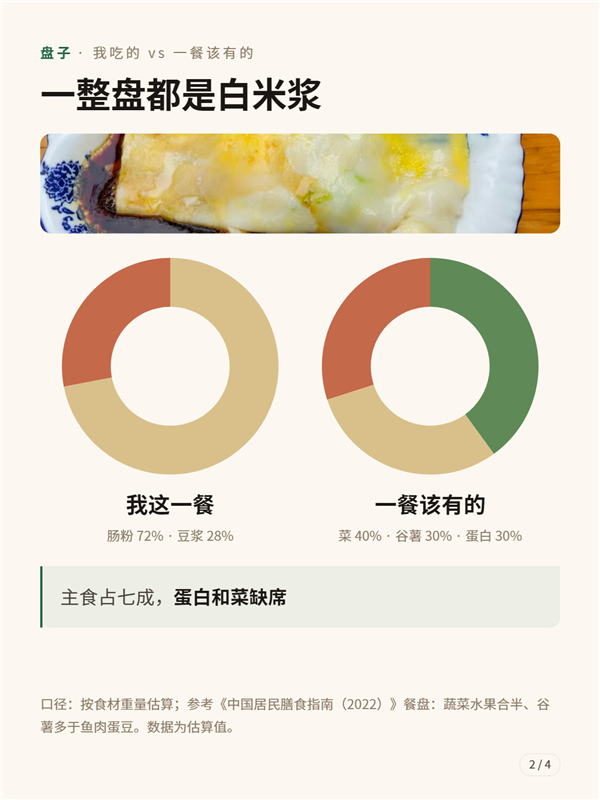
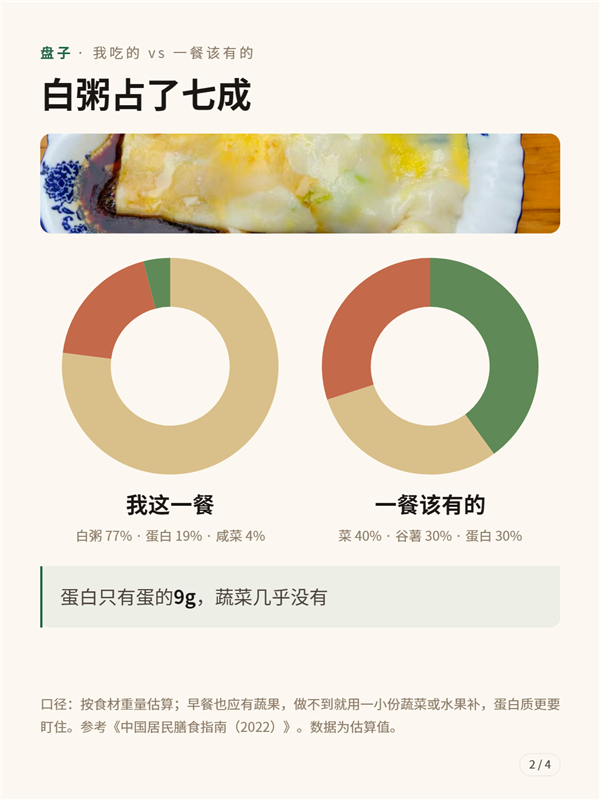
feat: 口径说明按餐次区分，早餐以蛋白质为重点
指南原文要求「餐餐有蔬菜」，蔬果半盘是单餐的参考比例而非每餐硬指标，
三餐侧重点不同：

- 早餐：也应有蔬果，做不到就用一小份补；蛋白优先（中老年早餐最常缺蛋白）
- 午餐：最容易做到蔬果占一半，重点看蔬菜够不够
- 晚餐：清淡少油，蔬菜按白天缺口补
- 加餐：不算正餐，按全天总量看

实现上口径文案由 Host 按餐次给出（模型不写也一定有），提示词同步要求
按餐次抓重点、不要把「蔬果半盘」写成硬性规定；README 与四页规格文档补上
对照表，测试新增餐次口径断言。

diff --git a/index.js b/index.js
@@ -370,6 +370,7 @@ const SYSTEM_PROMPT = `你是「三餐营养师」，注册营养师，帮用户
 写法要求：
 - cover 的公式是「什么食物 + 哪个数字不对」，两行拼起来 ≤16 字，必须出现数字；emphasis 就是这个数字那一小段（会被标红）。
 - 一餐只讲一个主要矛盾。exam 三行固定 蛋白质 / 蔬菜 / 全谷物，值写克数（整数，没有就写 0），不要编造超出常识的数字。
+- 三餐的重点不一样：早餐优先讲蛋白质（中老年早餐最容易缺蛋白），午餐优先讲蔬菜够不够半盘，晚餐优先讲清淡和补足白天缺的蔬菜。专业上「蔬菜水果约占一餐一半」是单餐的参考比例，不是每餐硬指标，别把它写成硬性规定。
 - plate.mine 是这一餐按食材重量估算的结构，1 到 3 项，合计 100；有菜就用 tone「veg」，主食「carb」，肉蛋奶豆「protein」。
 - fix 三条必须能当天做到，给具体食物和份量；第一条是最重要的那个改动。
 - caption 用短句、口语，像朋友分享自己的这一餐；不要写「备注：男、42 岁…」这种档案行（身份已经在封面左下角）。
@@ -433,6 +434,18 @@ const GUIDE_PIE = [
   { label: '谷薯', pct: 30, tone: 'carb' },
   { label: '蛋白', pct: 30, tone: 'protein' },
 ]
+
+/**
+ * 每餐的口径说明。《中国居民膳食指南（2022）》要求「餐餐有蔬菜」，蔬果半盘是单餐的
+ * 平均目标而不是硬指标；落到三餐侧重点不同：早餐容易缺蛋白、午餐最容易做到半盘、
+ * 晚餐按白天缺口补。
+ */
+const MEAL_NOTES = {
+  早餐: '口径：按食材重量估算；早餐也应有蔬果，做不到就用一小份蔬菜或水果补，蛋白质更要盯住。参考《中国居民膳食指南（2022）》。数据为估算值。',
+  午餐: '口径：按食材重量估算；午餐最容易做到蔬菜水果占一半。参考《中国居民膳食指南（2022）》餐盘。数据为估算值。',
+  晚餐: '口径：按食材重量估算；晚餐清淡少油，蔬菜按白天没吃够的量补。参考《中国居民膳食指南（2022）》餐盘。数据为估算值。',
+  加餐: '口径：按食材重量估算；加餐不算正餐，按全天总量看就行。数据为估算值。',
+}
 
 const EXAM_LABELS = ['蛋白质', '蔬菜', '全谷物']
 
@@ -548,6 +561,7 @@ function postTags(profile, mealType) {
 function normalizeResult(raw, { profile, mealType, mealText }) {
   const targets = nutritionTargets(profile, mealType)
   const data = isObject(raw) ? raw : {}
+  const mealNote = MEAL_NOTES[mealType] || MEAL_NOTES['午餐']
   const coverIn = isObject(data.cover) ? data.cover : {}
   const plateIn = isObject(data.plate) ? data.plate : {}
   const examIn = isObject(data.exam) ? data.exam : {}
@@ -653,7 +667,7 @@ function normalizeResult(raw, { profile, mealType, mealText }) {
       mine: normalizePie(plateIn.mine),
       guide: GUIDE_PIE,
       insight: plateInsight,
-      note: text(plateIn.note, 80) || '口径：按食材重量估算；参考《中国居民膳食指南（2022）》餐盘：蔬菜水果合半、谷薯多于鱼肉蛋豆。数据为估算值。',
+      note: text(plateIn.note, 80) || mealNote,
     },
     exam: { title: examTitle, rows: exam, insight: examInsight, say: examSay },
     fix: { title: fixTitle, rows, why, faq, ask },
@@ -826,7 +840,9 @@ function fallbackResult({ profile, mealType, mealText }) {
         { label: '蔬菜', value: vegG },
         { label: '全谷物', value: grainG },
       ],
-      insight: vegG === 0 ? '热量没超，材料没给。' : '热量够用，结构偏了。',
+      insight: mealType === '早餐'
+        ? (proteinRatio < 0.8 ? '早餐最该补的是蛋白' : '蛋白够了，菜还差一点')
+        : vegG === 0 ? '热量没超，材料没给。' : '热量够用，结构偏了。',
       say: {
         text: `${matched.length ? matched[0] : '这一餐'}升得快、掉得也快。十点心慌，不是饿，是结构不对。`,
         bold: '十点心慌，不是饿，是结构不对。',

diff --git a/docs/nutrition-desk-v2-cards.md b/docs/nutrition-desk-v2-cards.md
@@ -84,6 +84,10 @@ function cardDraw(kind, data, canvas)
 
 - `emphasis` / `bold` 是**某个 line 或 text 里的一段原文子串**，画的时候这一段用强调色。
   找不到子串就整段不上色（不要抛错）。
+- `plate.note` 由 Host 按餐次给默认文案（模型不写也一定有）：
+  早餐「也应有蔬果，做不到就用一小份补，蛋白质更要盯住」、午餐「最容易做到蔬果占一半」、
+  晚餐「清淡少油，蔬菜按白天缺口补」、加餐「不算正餐，看全天总量」。
+  指南原文只要求「餐餐有蔬菜」，蔬果半盘是**单餐的参考比例**，不是每餐硬指标。
 - `plate.mine` 1–3 项，`pct` 合计 100；`plate.guide` 固定三项（菜 40 / 谷薯 30 / 蛋白 30）。
   依据《中国居民膳食指南（2022）》平衡膳食餐盘：蔬菜与水果合计算一半、谷薯类多于鱼禽蛋豆；
   单餐通常不吃水果，所以蔬菜记 40%，蛋白 30% 也照顾到中老年 1.0–1.2 g/kg 的需要。
